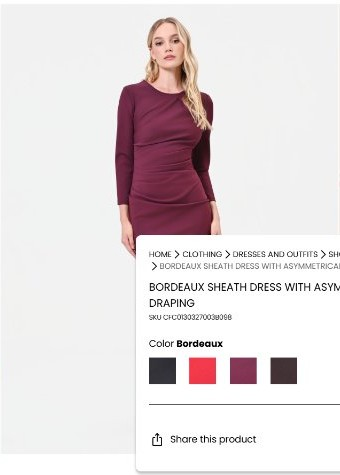
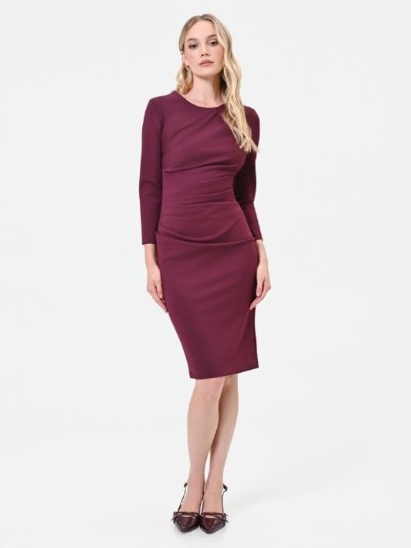
Enforce exact 631.2x841.6 mosaic dimensions, zero seams, and clean Bordeaux dress crops

diff --git a/src/features/catalog/components/ProductDetailExperience.tsx b/src/features/catalog/components/ProductDetailExperience.tsx
@@ -517,11 +517,11 @@ export const ProductDetailExperience: React.FC<ProductDetailExperienceProps> = (
       {/* ============================================================ */}
       <section
         aria-label="Product editorial lookbook and specifications"
-        className="w-full max-w-[1480px] mx-auto px-4 sm:px-6 pt-6 pb-14 lg:pt-8 lg:pb-20 bg-white text-black"
+        className="w-full max-w-[1452px] mx-auto px-4 pt-6 pb-14 lg:pt-8 lg:pb-20 bg-white text-black"
       >
-        <div className="grid grid-cols-1 lg:grid-cols-12 gap-8 lg:gap-10 items-start">
+        <div className="grid grid-cols-1 lg:grid-cols-[2fr_1fr] min-[1380px]:grid-cols-[946.8px_minmax(0,1fr)] gap-6 lg:gap-8 items-start">
           {/* Left Column: Shipping Notice + 2:1 Editorial Image Mosaic */}
-          <div className="lg:col-span-8">
+          <div className="min-w-0 w-full">
             <div className="mb-5 space-y-1 text-[13px] leading-[1.6] text-black">
               <p>
                 <strong className="font-semibold">Free shipping</strong>{' '}
@@ -532,28 +532,34 @@ export const ProductDetailExperience: React.FC<ProductDetailExperienceProps> = (
             </div>
 
             {galleryImages.length > 0 && (
-              <div className="grid grid-cols-1 sm:grid-cols-[2fr_1fr] gap-2 sm:gap-3">
+              <div className="grid grid-cols-1 sm:grid-cols-[2fr_1fr] gap-0 bg-[#f1f1f1]">
                 {[
                   {
                     src: galleryImages[primaryMosaicIdx],
                     lightboxIndex: primaryMosaicIdx,
                     alt: `${product.title} - editorial view`,
                     label: `Zoom editorial image of ${product.title}`,
-                    layoutClass: 'sm:row-span-2 aspect-[3/4] sm:aspect-auto sm:h-full'
+                    layoutClass: 'sm:row-span-2 aspect-[3/4] sm:h-full',
+                    width: 631,
+                    height: 842
                   },
                   {
                     src: galleryImages[topRightMosaicIdx],
                     lightboxIndex: topRightMosaicIdx,
                     alt: `${product.title} - detail view`,
                     label: `Zoom detail view of ${product.title}`,
-                    layoutClass: 'aspect-[3/4]'
+                    layoutClass: 'aspect-[3/4]',
+                    width: 316,
+                    height: 421
                   },
                   {
                     src: galleryImages[bottomRightMosaicIdx],
                     lightboxIndex: bottomRightMosaicIdx,
                     alt: `${product.title} - studio view`,
                     label: `Zoom studio view of ${product.title}`,
-                    layoutClass: 'aspect-[3/4]'
+                    layoutClass: 'aspect-[3/4]',
+                    width: 316,
+                    height: 421
                   }
                 ].map((tile, idx) => (
                   <button
@@ -561,12 +567,14 @@ export const ProductDetailExperience: React.FC<ProductDetailExperienceProps> = (
                     type="button"
                     onClick={() => handleOpenLightbox(tile.lightboxIndex)}
                     aria-label={tile.label}
-                    className={`${tile.layoutClass} block w-full overflow-hidden bg-[#f7f7f7] p-0 border-0 cursor-pointer group focus:outline-none focus-visible:ring-1 focus-visible:ring-black`}
+                    className={`${tile.layoutClass} block leading-none w-full overflow-hidden bg-[#f1f1f1] p-0 border-0 cursor-pointer group focus:outline-none focus-visible:ring-1 focus-visible:ring-black`}
                   >
                     <img
                       src={tile.src}
                       alt={tile.alt}
-                      className="gallery-image-zoom cursor-pointer w-full h-full object-cover object-top transition-transform duration-500 group-hover:scale-[1.02]"
+                      width={tile.width}
+                      height={tile.height}
+                      className="gallery-image-zoom cursor-pointer block w-full h-full object-cover object-top transition-transform duration-500 group-hover:scale-[1.02]"
                       loading="lazy"
                     />
                   </button>
@@ -576,7 +584,7 @@ export const ProductDetailExperience: React.FC<ProductDetailExperienceProps> = (
           </div>
 
           {/* Right Column: Description details & Composition Accordions, Merchandising Banner & Discovery */}
-          <div className="lg:col-span-4 w-full">
+          <div className="min-w-0 w-full">
             <DetailAccordion
               id="pdp-description-details-panel"
               title="Description details"

diff --git a/src/features/catalog/data/products.ts b/src/features/catalog/data/products.ts
@@ -137,10 +137,10 @@ export const bordeauxSheathDressProduct: ProductCardData = {
   defaultImg: "/images/bordeaux-dress-model.jpg",
   hoverImg: "/images/bordeaux-dress-detail.jpg",
   images: [
-    "/images/bordeaux-dress-back.jpg",
+    "/images/bordeaux-dress-front.jpg",
     "/images/bordeaux-dress-detail.jpg",
     "/images/bordeaux-dress-model.jpg",
-    "/images/bordeaux-dress-side.jpg"
+    "/images/bordeaux-dress-back.jpg"
   ],
   sizes: ["IT 38", "IT 40", "IT 42", "IT 44", "IT 46"],
   link: "/products/bordeaux-sheath-dress-with-asymmetrical-draping",
@@ -157,10 +157,10 @@ export const bordeauxSheathDressProduct: ProductCardData = {
       swatchImg: "/images/bordeaux-dress-detail.jpg",
       img: "/images/bordeaux-dress-model.jpg",
       images: [
-        "/images/bordeaux-dress-back.jpg",
+        "/images/bordeaux-dress-front.jpg",
         "/images/bordeaux-dress-detail.jpg",
         "/images/bordeaux-dress-model.jpg",
-        "/images/bordeaux-dress-side.jpg"
+        "/images/bordeaux-dress-back.jpg"
       ]
     },
     {

diff --git a/AGENTS.md b/AGENTS.md
@@ -1220,7 +1220,7 @@ deynold-danny-ecommerce/
 │   ├── logo.png
 │   └── images/
 │       ├── autumn-product-[1..5].jpg
-│       ├── bordeaux-dress-[back,detail,model,side].jpg
+│       ├── bordeaux-dress-[back,detail,front,model,side].jpg
 │       ├── cady-trousers-[back,detail,fabric,model,model-3,model-4,product,swatch,waist].jpg
 │       ├── cady-vest.jpg
 │       ├── categories/[abiti,accessori,borse,camicie,capispalla,maglieria,pantaloni,scarpe].jpg
@@ -1794,6 +1794,17 @@ deynold-danny-ecommerce/
   - **Validation:**
     - `npx astro check`: PASS (74 files checked: 0 errors, 0 warnings, 0 hints).
     - `npm run build`: PASS (40 page(s) built in 4.44s).
+  - **Blockers:** None.
+
+- **2026-11-11 — Editorial Mosaic Dimensions, Zero-Seam Grid & Clean Bordeaux Lookbook Crops**:
+  - **Status:** COMPLETE
+  - **Summary:** Enforced exact desktop dimensions (`631.2 × 841.6` for the primary left tile and `315.6 × 420.8` for both stacked right tiles) and zero internal seams (`gap-0`, `bg-[#f1f1f1]`) on the under-gallery editorial lookbook mosaic in `src/features/catalog/components/ProductDetailExperience.tsx` (`max-w-[1452px]`, `min-[1380px]:grid-cols-[946.8px_minmax(0,1fr)]`, explicit `width`/`height` HTML attributes and `block w-full h-full object-cover object-top`), matching user-uploaded screenshots `media_1794388261040_e9e16e81.jpg`, `media_1794388331770_68a8b363.jpg`, `media_1794388351990_03b6ba4f.jpg`, and `media_1794388366788_d0de2dc4.jpg`. Re-cropped `public/images/bordeaux-dress-model.jpg` (`411×548`) and added `public/images/bordeaux-dress-front.jpg` (`204×272`) from clean un-obscured frames in `media_1794388261040_e9e16e81.jpg`, and updated `bordeauxSheathDressProduct` in `src/features/catalog/data/products.ts` so all Bordeaux gallery and mosaic slots show un-obscured imagery without baked-in card overlays.
+  - **Files Added:** `public/images/bordeaux-dress-front.jpg`.
+  - **Files Modified:** `public/images/bordeaux-dress-model.jpg`, `src/features/catalog/data/products.ts`, `src/features/catalog/components/ProductDetailExperience.tsx`, `AGENTS.md`, `GEMINI.md`.
+  - **Structural change summary:** Added `public/images/bordeaux-dress-front.jpg` static product image asset; no application architecture or directory-structure change in this task.
+  - **Validation:**
+    - `npx astro check`: PASS (74 files checked: 0 errors, 0 warnings, 0 hints).
+    - `npm run build`: PASS (40 page(s) built cleanly in 9.45s).
   - **Blockers:** None.
 
 **The agent is expected to extend this architecture deliberately, not drift away from it.**

diff --git a/GEMINI.md b/GEMINI.md
@@ -225,7 +225,7 @@ deynold-danny-ecommerce/
 │   ├── logo.png
 │   └── images/
 │       ├── autumn-product-[1..5].jpg
-│       ├── bordeaux-dress-[back,detail,model,side].jpg
+│       ├── bordeaux-dress-[back,detail,front,model,side].jpg
 │       ├── cady-trousers-[back,detail,fabric,model,model-3,model-4,product,swatch,waist].jpg
 │       ├── cady-vest.jpg
 │       ├── categories/[abiti,accessori,borse,camicie,capispalla,maglieria,pantaloni,scarpe].jpg
@@ -799,6 +799,17 @@ deynold-danny-ecommerce/
   - **Validation:**
     - `npx astro check`: PASS (74 files checked: 0 errors, 0 warnings, 0 hints).
     - `npm run build`: PASS (40 page(s) built in 4.44s).
+  - **Blockers:** None.
+
+- **2026-11-11 — Editorial Mosaic Dimensions, Zero-Seam Grid & Clean Bordeaux Lookbook Crops**:
+  - **Status:** COMPLETE
+  - **Summary:** Enforced exact desktop dimensions (`631.2 × 841.6` for the primary left tile and `315.6 × 420.8` for both stacked right tiles) and zero internal seams (`gap-0`, `bg-[#f1f1f1]`) on the under-gallery editorial lookbook mosaic in `src/features/catalog/components/ProductDetailExperience.tsx` (`max-w-[1452px]`, `min-[1380px]:grid-cols-[946.8px_minmax(0,1fr)]`, explicit `width`/`height` HTML attributes and `block w-full h-full object-cover object-top`), matching user-uploaded screenshots `media_1794388261040_e9e16e81.jpg`, `media_1794388331770_68a8b363.jpg`, `media_1794388351990_03b6ba4f.jpg`, and `media_1794388366788_d0de2dc4.jpg`. Re-cropped `public/images/bordeaux-dress-model.jpg` (`411×548`) and added `public/images/bordeaux-dress-front.jpg` (`204×272`) from clean un-obscured frames in `media_1794388261040_e9e16e81.jpg`, and updated `bordeauxSheathDressProduct` in `src/features/catalog/data/products.ts` so all Bordeaux gallery and mosaic slots show un-obscured imagery without baked-in card overlays.
+  - **Files Added:** `public/images/bordeaux-dress-front.jpg`.
+  - **Files Modified:** `public/images/bordeaux-dress-model.jpg`, `src/features/catalog/data/products.ts`, `src/features/catalog/components/ProductDetailExperience.tsx`, `AGENTS.md`, `GEMINI.md`.
+  - **Structural change summary:** Added `public/images/bordeaux-dress-front.jpg` static product image asset; no application architecture or directory-structure change in this task.
+  - **Validation:**
+    - `npx astro check`: PASS (74 files checked: 0 errors, 0 warnings, 0 hints).
+    - `npm run build`: PASS (40 page(s) built cleanly in 9.45s).
   - **Blockers:** None.
 
 ## 9. Required final response
